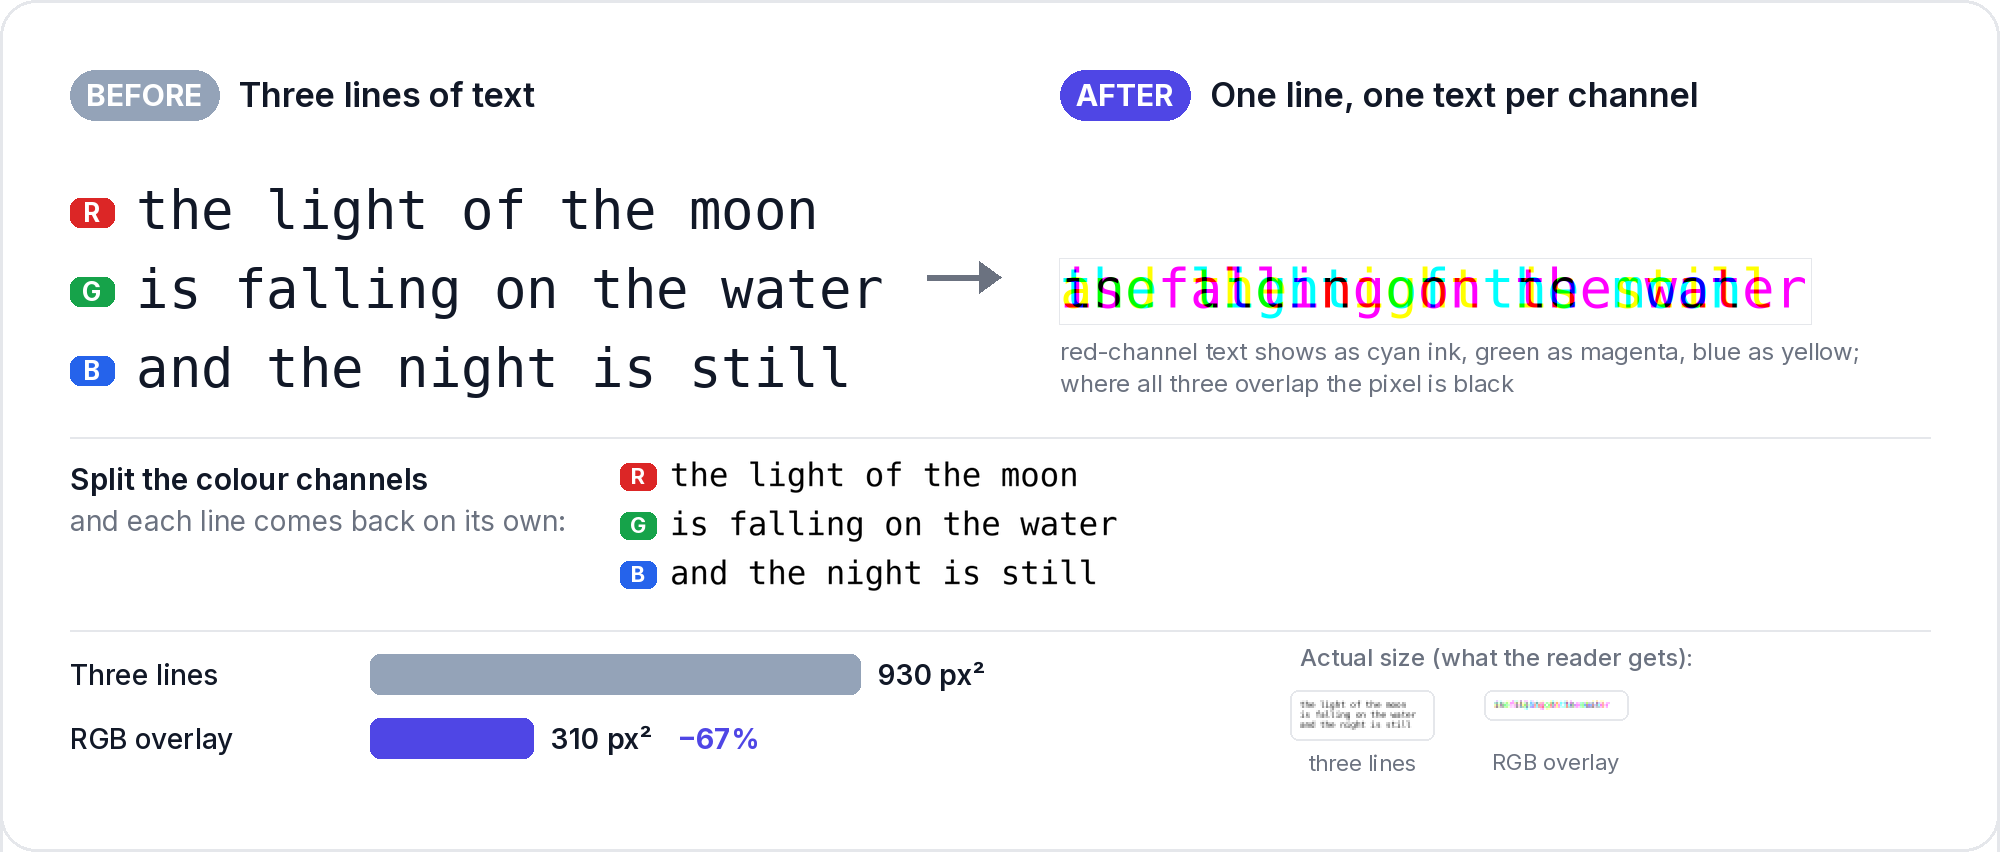
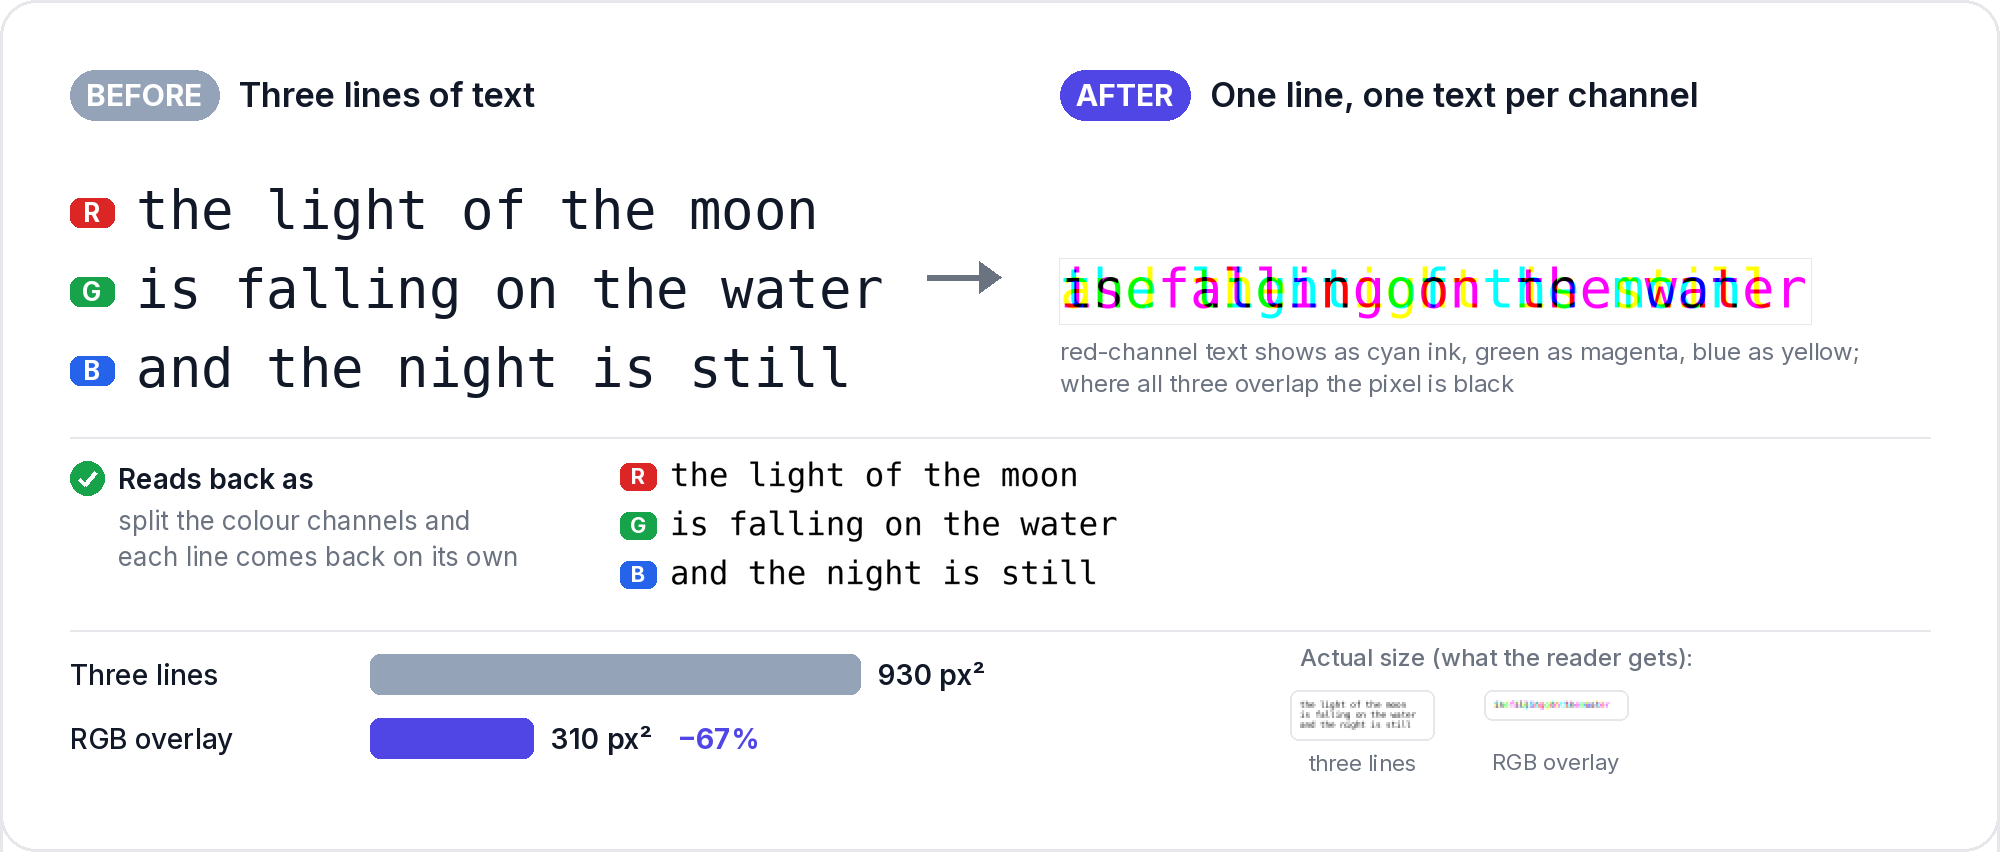
README figures: show the decoded text under each AFTER panel
Claude-Session: https://claude.ai/code/session_01WVzSJALEZhrm1JGLeEVHgT

Changed region(s): [[0.031, 0.5493, 0.279, 0.6714]]

diff --git a/scripts/make_readme_figures.py b/scripts/make_readme_figures.py
@@ -131,6 +131,32 @@ def latin_panel(d, x, y, z, highlights=None, font_path=DEJAVU):
     return max(f.getlength(t) for t in HAIKU)
 
 
+GOOD = (22, 163, 74)
+
+
+def reads_as_label(d, x, y, sub=""):
+    d.ellipse([x, y, x + 34, y + 34], fill=GOOD)
+    d.line([(x + 9, y + 18), (x + 15, y + 24), (x + 26, y + 11)], fill=(255, 255, 255), width=4)
+    f = ui(28, "SemiBold")
+    d.text((x + 48, y + 17), "Reads back as", font=f, fill=INK, anchor="lm")
+    if sub:
+        d.text((x + 58 + d.textlength("Reads back as", font=f), y + 17), sub, font=ui(26), fill=MUTED, anchor="lm")
+
+
+def reads_as(d, x, y, highlights=None):
+    """The decoded haiku under an AFTER panel (optionally with the chunk tints). Returns the bottom y."""
+    reads_as_label(d, x, y)
+    f = ImageFont.truetype(DEJAVU, 32)
+    lh = 46
+    for i, t in enumerate(HAIKU):
+        top = y + 50 + i * lh
+        for s0, e, tint in (highlights or [[]] * 3)[i]:
+            x0, x1 = x + f.getlength(t[:s0]), x + f.getlength(t[:e])
+            d.rounded_rectangle([x0 + 1, top + 2, x1 - 1, top + lh - 4], radius=8, fill=tint)
+        d.text((x, top + 34), t, font=f, fill=INK, anchor="ls")
+    return y + 50 + 3 * lh
+
+
 # --------------------------------------------------------------------------- figure 1: learned glyphs
 def fig_glyphs():
     bank = torch.load(BANK, map_location="cpu", weights_only=False)
@@ -199,8 +225,9 @@ def fig_glyphs():
     d.text((rx, yc), "each coloured cell is ONE glyph for a whole chunk",
            font=ui(24), fill=MUTED, anchor="lt")
     d.text((lx, yc), "coloured = chunks from the 300-entry dictionary", font=ui(24), fill=MUTED, anchor="lt")
+    ye = reads_as(d, rx, yc + 60, hl)
 
-    yb = yc + 80
+    yb = ye + 70
     d.line([lx, yb - 24, W - 70, yb - 24], fill=FAINT, width=2)
     y = bars(d, lx, yb, 1120, [
         (f"Plain: {n_chars} chars", latin_w, BEFORE, ""),
@@ -241,11 +268,12 @@ def fig_colour():
     yc = y0 + 3 * row_h + 10
     d.text((rx, yc), "95 colours (5 levels per channel), letters shown only as a key",
            font=ui(24), fill=MUTED, anchor="lt")
+    ye = reads_as(d, rx, yc + 60)
 
     n_chars = sum(len(t) for t in HAIKU)
     f = ImageFont.truetype(DEJAVU, 400)
     latin_area = sum(f.getlength(t) / 400 * EM for t in HAIKU) * PITCH
-    yb = yc + 80
+    yb = ye + 70
     d.line([lx, yb - 24, W - 70, yb - 24], fill=FAINT, width=2)
     y = bars(d, lx, yb, 1120, [
         ("Plain text", latin_area, BEFORE, ""),
@@ -311,8 +339,9 @@ def fig_rgb():
     # channel split: each channel alone gives one clean line back
     ys = y0 + 3 * (pitch + 14) + 40
     d.line([lx, ys - 20, W - 70, ys - 20], fill=FAINT, width=2)
-    d.text((lx, ys + 10), "Split the colour channels", font=ui(30, "SemiBold"), fill=INK, anchor="lt")
-    d.text((lx, ys + 52), "and each line comes back on its own:", font=ui(28), fill=MUTED, anchor="lt")
+    reads_as_label(d, lx, ys + 4)
+    d.text((lx + 48, ys + 52), "split the colour channels and", font=ui(26), fill=MUTED, anchor="lt")
+    d.text((lx + 48, ys + 88), "each line comes back on its own", font=ui(26), fill=MUTED, anchor="lt")
     arr = np.asarray(comp)
     sx, sw = 620, int(comp.width * 0.6)
     for c, (tag, col) in enumerate(chips):
